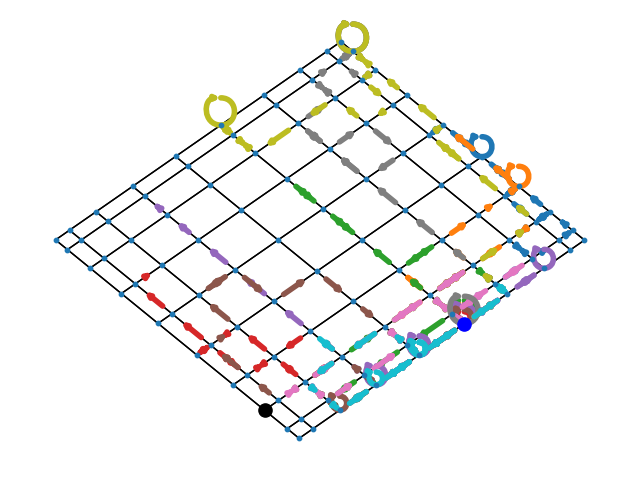
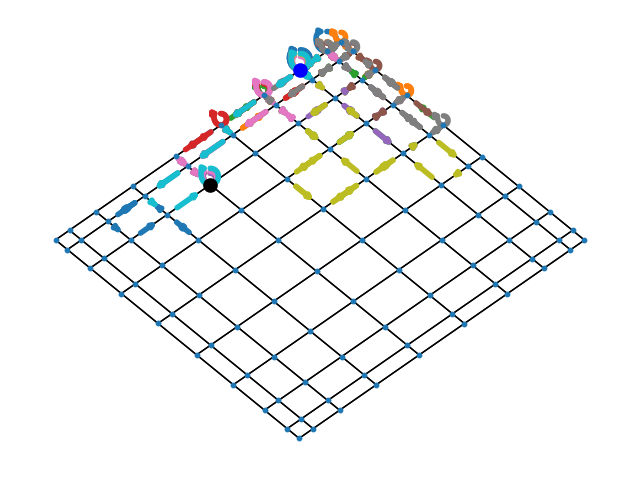
asdflkm

diff --git a/transfer_test.py b/transfer_test.py
@@ -62,33 +62,8 @@ save_graph_diagnostic_image( env, policy, num_env_steps, 10,"Initial sample path
 policy, training_reward_evolution, training_success_evolution = learn_pg(env, policy, num_pg_steps, 
 	trajectory_batch_size, num_env_steps, verbose = verbose)
 
-pg_rewards, pg_success_num, _ = test_policy(env, policy, success_num_trials, num_env_steps)
+pg_rewards, pg_success_num, optimal_policy_trajectories = test_policy(env, policy, success_num_trials, num_env_steps)
 
-
-### Plot Successes
-plt.close("all")
-plt.title("Successes evolution")
-plt.xlabel("Num trajectories")
-plt.ylabel("Avg Successs")
-plt.plot((np.arange(num_pg_steps) + 1)*trajectory_batch_size,  training_success_evolution, label = "avg successes", linewidth = 3.5, color = "red")
-plt.savefig("./figs/avg_successes.png")
-plt.close('all')
-
-
-### Plot rewards
-plt.close("all")
-plt.title("Rewards evolution")
-plt.xlabel("Num trajectories")
-plt.ylabel("Avg Reward")
-plt.plot((np.arange(num_pg_steps) + 1)*trajectory_batch_size,  training_reward_evolution, label = "avg rewards", linewidth = 3.5, color = "red")
-plt.savefig("./figs/avg_rewards.png")
-plt.close('all')
-
-
-
-
-
-save_graph_diagnostic_image(env, policy, num_env_steps, 10, "After PG", "./figs/after_pg.png")
 
 #print("Sum policy params after PG ", torch.sum(policy.policy_params))
 print("Base success num ",  base_success_num)
@@ -97,11 +72,9 @@ print("PG success num ", pg_success_num)
 print("PG rewards ",pg_rewards )
 
 
-
-
-
 ### Change the linear multiplier for the environment. 
 P = np.arange(state_dim) + 1
+P += torch.normal(torch.zeros((state_dim, state_dim)))
 P = P/(1.0*state_dim)
 P = np.diag(P)
 P = torch.tensor(P).float()
@@ -115,36 +88,17 @@ print("Rewards after P change ", P_rewards)
 print("Successes after P change ", P_success_num)
 
 
-### Plot Successes
-plt.close("all")
-plt.title("Successes evolution")
-plt.xlabel("Num trajectories")
-plt.ylabel("Avg Successs")
-plt.plot((np.arange(num_pg_steps) + 1)*trajectory_batch_size,  training_success_evolution, label = "avg successes", linewidth = 3.5, color = "red")
-plt.savefig("./figs/avg_successes_P.png")
-plt.close('all')
 
-
-### Plot rewards
-plt.close("all")
-plt.title("Rewards evolution")
-plt.xlabel("Num trajectories")
-plt.ylabel("Avg Reward")
-plt.plot((np.arange(num_pg_steps) + 1)*trajectory_batch_size,  training_reward_evolution, label = "avg rewards", linewidth = 3.5, color = "red")
-plt.savefig("./figs/avg_rewards_P.png")
-plt.close('all')
+IPython.embed()
 
 
 
 
 
-save_graph_diagnostic_image(env, policy, num_env_steps, 10, "After PG", "./figs/after_P_change.png")
 
-#print("Sum policy params after PG ", torch.sum(policy.policy_params))
-print("P change Base success num ",  base_success_num)
-print("P change Base rewards ", base_rewards)
-print("P change PG success num ", P_success_num)
-print("P change PG rewards ",P_rewards )
+
+
+
 
 
 

diff --git a/policies.py b/policies.py
@@ -108,14 +108,18 @@ class RandomPolicy:
 def test_policy(env, policy, num_trials, num_env_steps):
   base_success_nums = []
   collected_base_rewards = []
+  trajectories = []
+
 
   for i in range(num_trials):
     env.restart_env()
     node_path1, _,states, _, rewards1  = run_walk(env, policy, num_env_steps)
     base_success_nums.append( tuple(node_path1[-1].numpy())==env.destination_node)
     collected_base_rewards.append(sum(rewards1))
+    trajectories.append(states)
+
   base_success_num= np.mean(base_success_nums)
   base_rewards = np.mean(collected_base_rewards)
 
-  return base_rewards, base_success_num
+  return base_rewards, base_success_num, trajectories
 
